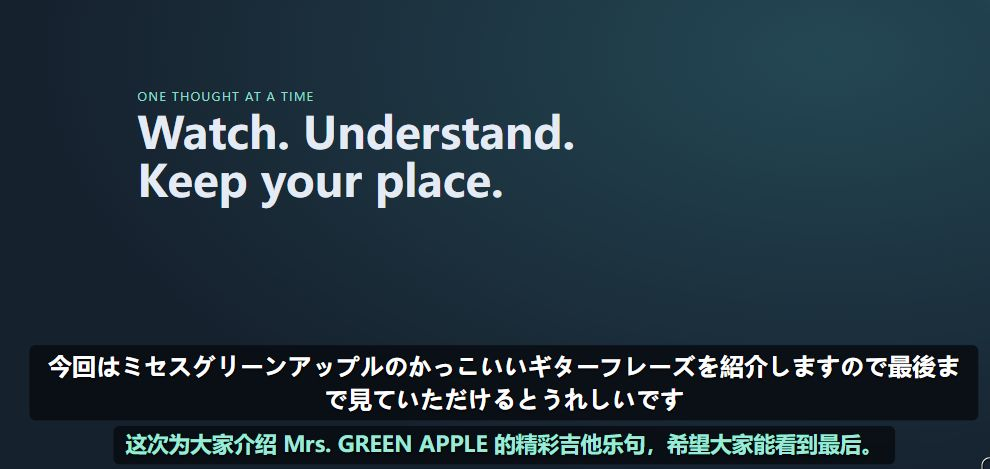
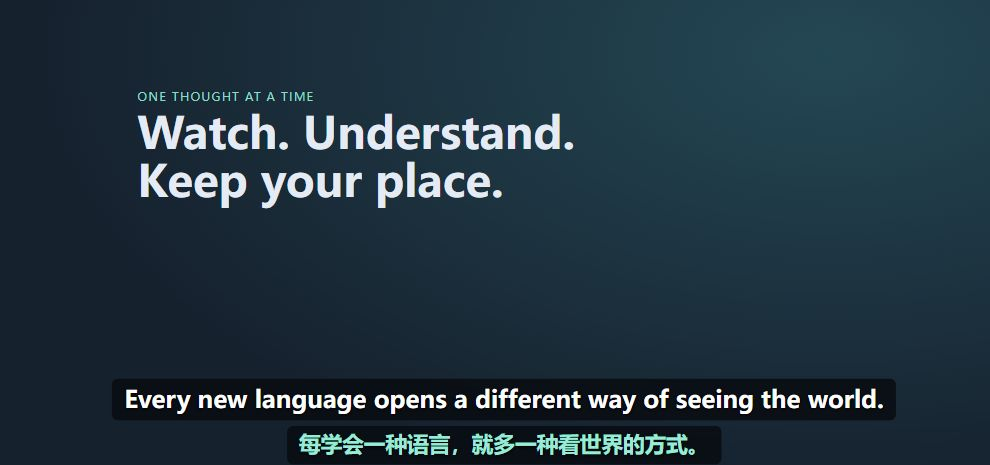
Show English and Chinese subtitles in README hero

diff --git a/lab/mock.js b/lab/mock.js
@@ -2,7 +2,8 @@ import { DEFAULTS } from '/extension/config.js';
 import { translate } from '/extension/providers.js';
 import { indexSource } from '/extension/semantic.js';
 const semanticDemo = new URLSearchParams(location.search).has('semantic');
-let preferences = { ...DEFAULTS, semanticSegmentation: semanticDemo, mode: 'bilingual', engine: 'ai', ...(semanticDemo ? { targetLanguage: 'zh' } : {}) };
+const showcaseDemo = new URLSearchParams(location.search).has('showcase');
+let preferences = { ...DEFAULTS, semanticSegmentation: semanticDemo, mode: 'bilingual', engine: 'ai', ...(semanticDemo || showcaseDemo ? { targetLanguage: 'zh' } : {}) };
 const semanticPhrases = ['おはようございます', 'かずきです', '今回はミセスグリーンアップルのかっこいいギターフレーズを紹介しますので最後まで見ていただけるとうれしいです', '皆さんこの曲を聞いたことがありますか'];
 const semanticCues = semanticPhrases.map((text, i) => ({ text, start: [0, 2, 4, 14][i], end: [2, 4, 14, 18][i] }));
 const semanticSource = indexSource(semanticCues, 'ja');
@@ -17,6 +18,12 @@ const replies = new Map([
   ['Take your time, and move forward one sentence at a time.', 'Tómate tu tiempo y avanza una frase a la vez.'],
   ['You can always go back to hear something again.', 'Siempre puedes volver para escuchar algo de nuevo.']
 ]);
+if (showcaseDemo) {
+  replies.set('Every new language opens a different way of seeing the world.', '每学会一种语言，就多一种看世界的方式。');
+  replies.set('A complete thought is easier to understand than a handful of fragments.', '完整的意思，比零散的片段更容易理解。');
+  replies.set('Take your time, and move forward one sentence at a time.', '慢慢来，一句一句，走得更远。');
+  replies.set('You can always go back to hear something again.', '没听清的地方，随时回到那一句再听一遍。');
+}
 globalThis.chrome = { runtime: { id: 'lab', onMessage: { addListener: fn => listeners.push(fn) }, sendMessage: async message => {
   if (message.type === 'get-preferences') return { ok: true, preferences };
   if (message.type === 'set-preferences') { preferences = { ...preferences, ...message.preferences }; listeners.forEach(fn => fn({ type: 'preferences-changed', preferences }, { id: 'lab' }, () => {})); return { ok: true, preferences }; }
@@ -40,7 +47,8 @@ globalThis.chrome = { runtime: { id: 'lab', onMessage: { addListener: fn => list
 window.addEventListener('message', event => {
   const m = event.data; if (event.source !== window || m?.channel !== 'sentence-youtube-v1' || m.direction !== 'request') return;
   const data = m.type === 'discover' ? { ready: true, tracks: semanticDemo ? [{ id: 'a.ja', language: 'ja', label: 'Japanese', kind: 'automatic', isDefault: true }] : [{ id: '.en', language: 'en', label: 'English', kind: 'creator', isDefault: true }, { id: 'a.en', language: 'en', label: 'English', kind: 'automatic' }] } : semanticDemo ?
-    { body: JSON.stringify({ events: semanticCues.map(c => ({ tStartMs: c.start * 1000, dDurationMs: (c.end - c.start) * 1000, segs: [{ utf8: c.text }] })) }) } :
+    { body: JSON.stringify({ events: semanticCues.map(c => ({ tStartMs: c.start * 1000, dDurationMs: (c.end - c.start) * 1000, segs: [{ utf8: c.text }] })) }) } : showcaseDemo ?
+    { body: JSON.stringify({ events: [...replies.keys()].map((text, i) => ({ tStartMs: i * 7000, dDurationMs: 6000, segs: [{ utf8: text }] })) }) } :
     { body: JSON.stringify({ events: [
       { tStartMs: 0, dDurationMs: 3000, segs: [{ utf8: 'Every new language opens' }] },
       { tStartMs: 3000, dDurationMs: 5000, segs: [{ utf8: 'a different way of seeing the world.' }] },
@@ -51,6 +59,10 @@ window.addEventListener('message', event => {
   window.postMessage({ ...data, channel: m.channel, direction: 'response', requestId: m.requestId, videoId: m.videoId }, location.origin);
 });
 const video = document.querySelector('video');
+if (showcaseDemo) {
+  document.getElementById('lab-description').textContent = 'README SHOWCASE: English captions and predefined Chinese translations rendered by the production subtitle interface. Synthetic media; no external provider is called.';
+  document.getElementById('live-translation').hidden = true;
+}
 if (semanticDemo) {
   document.getElementById('lab-description').textContent = 'SEMANTIC PIPELINE FIXTURE: Japanese captions with hand-authored sentence boundaries and Chinese translations. Production player code; simulated model responses and timing. No AI provider is called.';
   document.getElementById('live-translation').hidden = true;
@@ -63,7 +75,7 @@ document.getElementById('live-translation').onclick = () => {
   document.getElementById('lab-description').textContent = 'LIVE TRANSLATION: these public demo sentences are sent to the real MyMemory API. The caption timeline and extension messaging remain local fixtures. No API key is used.';
   listeners.forEach(fn => fn({ type: 'preferences-changed', preferences, providerChanged: true }, { id: 'lab' }, () => {}));
 };
-document.getElementById('seek').onclick = () => { video.currentTime = 1; document.getElementById('movie_player').focus(); };
+document.getElementById('seek').onclick = () => { video.currentTime = 1; if (showcaseDemo) video.pause(); document.getElementById('movie_player').focus(); };
 document.getElementById('navigate').onclick = () => {
   history.pushState({}, '', location.search.includes('abcdefghijk') ? '/watch?v=lmnopqrstuv' : '/watch?v=abcdefghijk');
   document.dispatchEvent(new Event('yt-navigate-finish'));

diff --git a/docs/images/README.md b/docs/images/README.md
@@ -2,7 +2,7 @@
 
 Captured in desktop Chrome on 2026-09-18, using the production extension UI in local fixtures. Only the screenshot bounds were cropped; no subtitle or interface text was composited or replaced in the images. The fixtures use synthetic media and predefined captions/translations, not a live YouTube or model request.
 
-- `bilingual-reading.jpg`: `/watch?v=abcdefghijk&semantic=1`, **Go to long sentence**, settings closed. Japanese source and Chinese translation are predefined in `lab/mock.js`. Shows the production subtitle renderer over the lab's original graphic background.
+- `bilingual-reading.jpg`: refreshed on 2026-09-19 at `/watch?v=abcdefghijk&showcase=1`, **Go to first sentence**, settings closed. English source ("Every new language opens a different way of seeing the world.") and Chinese translation ("每学会一种语言，就多一种看世界的方式。") are predefined in `lab/mock.js`. Shows the production subtitle renderer over the lab's original graphic background.
 - `appearance-controls.jpg`: `/lab/pages.html`, **Appearance**, default Mint theme. Captured the complete Colors & typography section, including the production bilingual style preview.
 
 Run `npm run lab` from the project root to reproduce these views at `http://127.0.0.1:4173`. No provider credentials are needed. These screenshots demonstrate UI layout, not live transcription, translation quality, or YouTube compatibility.

diff --git a/README.md b/README.md
@@ -19,9 +19,9 @@
 
 <br>
 
-![Versevia 日中双语字幕阅读效果](docs/images/bilingual-reading.jpg)
+![Versevia 中英文双语字幕阅读效果](docs/images/bilingual-reading.jpg)
 
-<p align="center"><sub>生产界面实截 · 日中样例字幕；演示使用预设译文，展示排版与交互，不代表实际模型翻译质量。</sub></p>
+<p align="center"><sub>实际界面截图 · 中英文样例字幕；演示使用预设译文，展示排版与交互，不代表实际模型翻译质量。</sub></p>
 
 ## 看懂，也听懂
 
